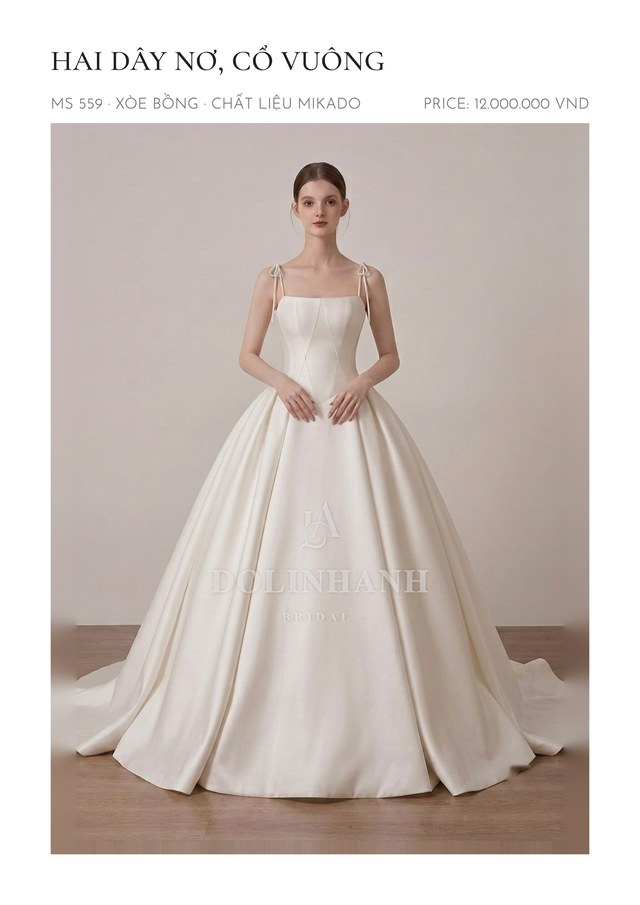
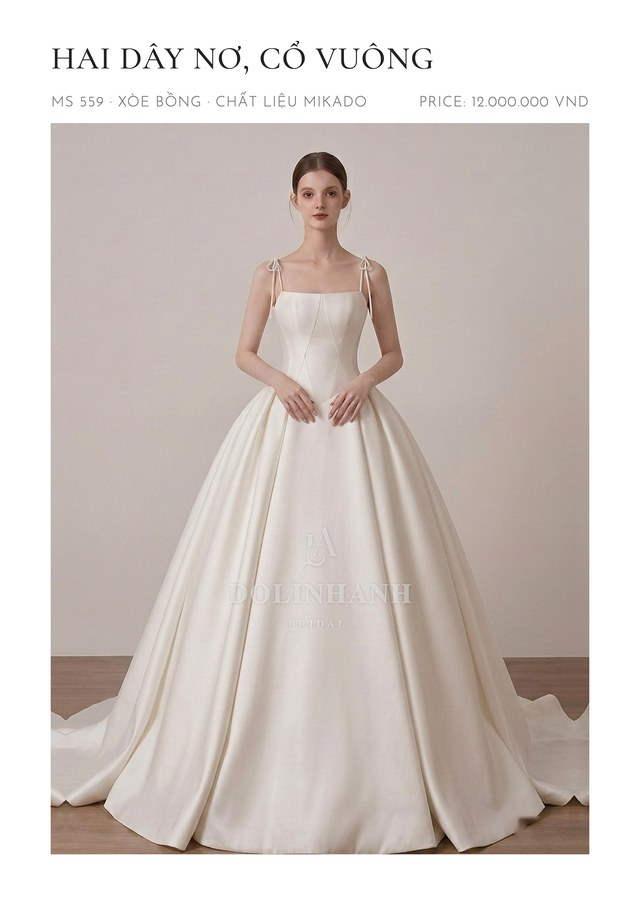
MS 559: kéo dài chân 10% (ảnh web + thẻ giá)

diff --git a/wedding-dress-prices.html b/wedding-dress-prices.html
@@ -532,7 +532,7 @@
 <a class="the" data-dang="ballgown" data-coso="hcm" href="anh/gia-tung-vay/MS551.jpg"><img src="anh/gia-tung-vay/MS551.jpg" loading="lazy" alt="MS 551"></a>
 <a class="the" data-dang="ballgown" data-coso="hcm" href="anh/gia-tung-vay/MS552.jpg"><img src="anh/gia-tung-vay/MS552.jpg" loading="lazy" alt="MS 552"></a>
 <a class="the" data-dang="ballgown" data-coso="hcm" href="anh/gia-tung-vay/MS558.jpg"><img src="anh/gia-tung-vay/MS558.jpg" loading="lazy" alt="MS 558"></a>
-<a class="the" data-dang="ballgown" data-coso="hcm" href="anh/gia-tung-vay/MS559.jpg"><img src="anh/gia-tung-vay/MS559.jpg" loading="lazy" alt="MS 559"></a>
+<a class="the" data-dang="ballgown" data-coso="hcm" href="anh/gia-tung-vay/MS559.jpg?v=2"><img src="anh/gia-tung-vay/MS559.jpg?v=2" loading="lazy" alt="MS 559"></a>
 <a class="the" data-dang="mini" data-coso="hcm" href="anh/gia-tung-vay/MS186.jpg"><img src="anh/gia-tung-vay/MS186.jpg" loading="lazy" alt="MS 186"></a>
 <a class="the" data-dang="mini" data-coso="hcm" href="anh/gia-tung-vay/MS187.jpg"><img src="anh/gia-tung-vay/MS187.jpg" loading="lazy" alt="MS 187"></a>
 <a class="the" data-dang="mini" data-coso="hcm" href="anh/gia-tung-vay/MS188.jpg"><img src="anh/gia-tung-vay/MS188.jpg" loading="lazy" alt="MS 188"></a>

diff --git a/bo-suu-tap.html b/bo-suu-tap.html
@@ -3684,7 +3684,7 @@ src="https://www.facebook.com/tr?id=1358640082651240&ev=PageView&noscript=1"
         </figure>
         <figure data-dang="ballgown" data-mood="minimal" data-coso="hcm">
           <div class="sl-khung">
-            <div class="sl" data-img="anh/vay/ms559/01.jpg?v=1"></div>
+            <div class="sl" data-img="anh/vay/ms559/01.jpg?v=2"></div>
           </div>
           <figcaption><span class="kind" data-en="Dolinhanh Bridal">Dolinhanh Bridal</span><span class="nm">MS 559</span><span class="de" data-en="Bow-strap square-neck mikado ballgown">Hai dây nơ, cổ vuông</span></figcaption>
         </figure>
